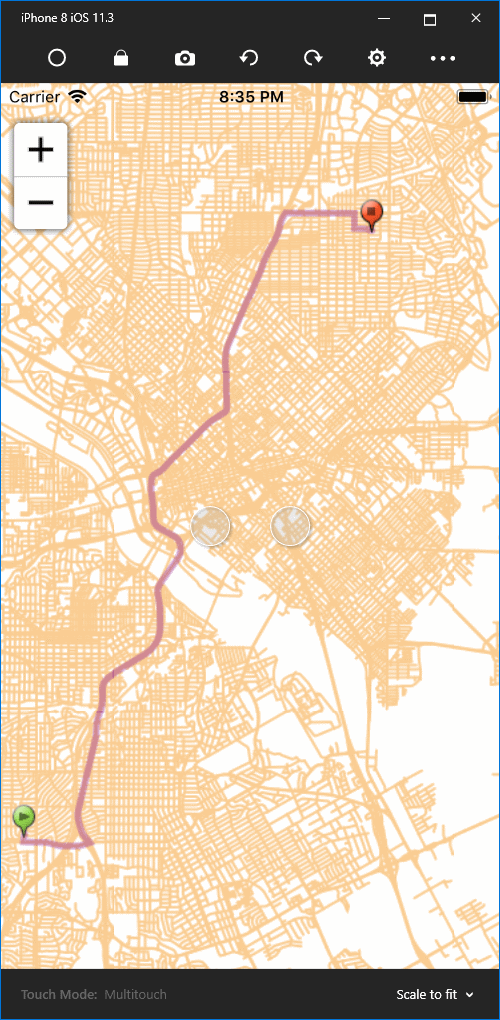
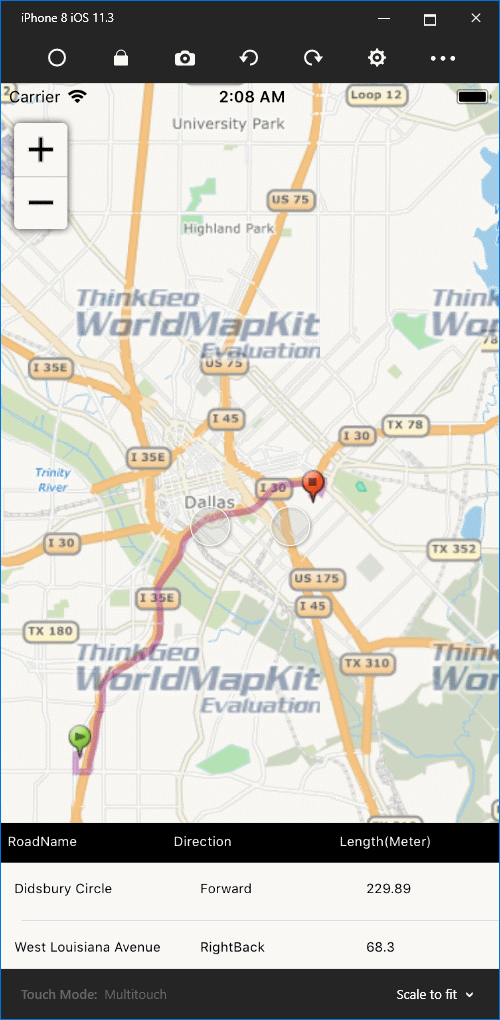
Add Direction Data

diff --git a/RoutingSampleiOS/ViewController.cs b/RoutingSampleiOS/ViewController.cs
@@ -1,5 +1,7 @@
 using CoreGraphics;
 using System;
+using System.Collections.Generic;
+using System.Collections.ObjectModel;
 using System.IO;
 using ThinkGeo.MapSuite;
 using ThinkGeo.MapSuite.Drawing;
@@ -29,17 +31,13 @@ namespace RoutingSample_iOS
             base.ViewDidLoad();
             mapView = new MapView(View.Frame);
             View.Add(mapView);
+            ComposeTableControl();
 
             mapView.MapUnit = GeographyUnit.Meter;
             mapView.MapSingleTap += MapViewMapSingleTap;
 
-            LayerOverlay backgroundOverlay = new LayerOverlay();
             string shapeFilePath = Path.Combine("AppData", "DallasCounty-3857.shp");
-            ShapeFileFeatureLayer shapeFileFeatureLayer = new ShapeFileFeatureLayer(shapeFilePath);
-            shapeFileFeatureLayer.ZoomLevelSet.ZoomLevel01.DefaultLineStyle = WorldStreetsLineStyles.MotorwayFill(2.0f);
-            shapeFileFeatureLayer.ZoomLevelSet.ZoomLevel01.ApplyUntilZoomLevel = ApplyUntilZoomLevel.Level20;
-            backgroundOverlay.Layers.Add(shapeFileFeatureLayer);
-            mapView.Overlays.Add(backgroundOverlay);
+            mapView.Overlays.Add(new WorldStreetAndImageryOverlay() { Projection = WorldStreetsAndImageryProjection.SphericalMercator});
 
             layerOverlay = new LayerOverlay();
             routingLayer = new RoutingLayer();
@@ -56,6 +54,32 @@ namespace RoutingSample_iOS
 
             mapView.CurrentExtent = new RectangleShape(-10781100.2970769, 3875007.18710502, -10767407.8727504, 3854947.78546675);
             mapView.Refresh();
+        }
+
+        private void ComposeTableControl()
+        {
+            var tableHeaderView = new UIView(new CGRect(View.Frame.X, View.Frame.Height - 110, View.Frame.Width, 30));
+            tableHeaderView.BackgroundColor = UIColor.FromRGB(0, 0, 0);
+
+            var cellWidth = tableHeaderView.Frame.Width / 3;
+
+            var roadNameLabel = new UILabel() { Text = "RoadName", TextColor = UIColor.White, Font = UIFont.SystemFontOfSize(10), Frame = new CGRect(View.Frame.X + 5, 8, cellWidth, 20), TextAlignment = UITextAlignment.Center };
+            roadNameLabel.SizeToFit();
+            var directionLabel = new UILabel() { Text = "Direction", TextColor = UIColor.White, Font = UIFont.SystemFontOfSize(10), Frame = new CGRect(View.Frame.X + 5 + cellWidth, 8, cellWidth, 20), TextAlignment = UITextAlignment.Center };
+            directionLabel.SizeToFit();
+            var lengthLabel = new UILabel() { Text = "Length(Meter)", TextColor = UIColor.White, Font = UIFont.SystemFontOfSize(10), Frame = new CGRect(View.Frame.X + 5 + 2 * cellWidth, 8, cellWidth, 20), TextAlignment = UITextAlignment.Center };
+            lengthLabel.SizeToFit();
+
+            tableHeaderView.AddSubview(roadNameLabel);
+            tableHeaderView.AddSubview(directionLabel);
+            tableHeaderView.AddSubview(lengthLabel);
+
+            var tableView = new UITableView(new CGRect(View.Frame.X, View.Frame.Height - 80, View.Frame.Width, View.Frame.Height));
+
+            tableView.BackgroundColor = UIColor.FromRGB(233, 233, 233);
+            View.Add(tableHeaderView);
+
+            View.Add(tableView);
         }
 
         private void MapViewMapSingleTap(object sender, UIGestureRecognizer e)
@@ -80,9 +104,30 @@ namespace RoutingSample_iOS
             {
                 RoutingResult routingResult = routingEngine.GetRoute(routingLayer.StartPoint, routingLayer.EndPoint);
                 routingLayer.Routes.Add(routingResult.Route);
+                ShowTurnByTurnDirections(routingResult.RouteSegments, routingResult.Features);
             }
 
             layerOverlay.Refresh();
+        }
+
+        private void ShowTurnByTurnDirections(Collection<RouteSegment> roads, Collection<Feature> features)
+        {
+            var tableView = View.Subviews[4] as UITableView;
+
+            var directions = new List<DirectionDataItem>();
+            for (int i = 0; i < roads.Count; i++)
+            {
+                var direction = new DirectionDataItem()
+                {
+                    RoadName = features[i].ColumnValues["NAME"],
+                    Direction = roads[i].DrivingDirection.ToString(),
+                    Length = Math.Round(((LineBaseShape)features[i].GetShape()).GetLength(GeographyUnit.Meter, DistanceUnit.Meter), 2)
+                };
+
+                directions.Add(direction);
+            }
+            tableView.DataSource = new DirectionTableViewDataSource(directions);
+            tableView.ReloadData();
         }
 
         public override void DidReceiveMemoryWarning()

diff --git a/RoutingSampleiOS/DirectionTableViewDataSource.cs b/RoutingSampleiOS/DirectionTableViewDataSource.cs
@@ -1,0 +1,60 @@
+using System;
+using System.Collections.Generic;
+using Foundation;
+using UIKit;
+using CoreGraphics;
+
+namespace RoutingSample_iOS
+{
+    class DirectionTableViewDataSource : UITableViewDataSource
+    {
+        private static string cellIdentifier = "cellIdentifier";
+        private List<DirectionDataItem> directionDataList;
+
+        public DirectionTableViewDataSource(List<DirectionDataItem> directions)
+        {
+            directionDataList = directions;
+        }
+
+        public override nint NumberOfSections(UITableView tableView)
+        {
+            return 1;
+        }
+
+        public override UITableViewCell GetCell(UITableView tableView, NSIndexPath indexPath)
+        {
+            var cell = tableView.DequeueReusableCell(cellIdentifier);
+            if(cell == null)
+            {
+                cell = new UITableViewCell(UITableViewCellStyle.Default, cellIdentifier);
+            }
+
+            cell.TextLabel.Font = UIFont.SystemFontOfSize(10);
+            cell.TextLabel.TextColor = UIColor.FromRGB(51, 51, 51);
+            cell.Accessory = UITableViewCellAccessory.DisclosureIndicator;
+            cell.Frame = new CGRect(cell.Frame.X, cell.Frame.Y, cell.Frame.Width, 30);
+
+            var cellWidth = cell.Frame.Width / 3;
+            var roadNameView = new UITextView(new CGRect(5, 5, cellWidth + 15, cell.Frame.Height));
+            roadNameView.Text = directionDataList[indexPath.Row].RoadName;
+            roadNameView.Font = UIFont.SystemFontOfSize(10);
+            var directionView = new UITextView(new CGRect(20 + cellWidth, 5, cellWidth, cell.Frame.Height));
+            directionView.Text = directionDataList[indexPath.Row].Direction;
+            directionView.Font = UIFont.SystemFontOfSize(10);
+            var lengthView = new UITextView(new CGRect(20 + 2 * cellWidth, 5, cellWidth - 15, cell.Frame.Height));
+            lengthView.Text = directionDataList[indexPath.Row].Length.ToString();
+            lengthView.Font = UIFont.SystemFontOfSize(10);
+
+            cell.AddSubview(roadNameView);
+            cell.AddSubview(directionView);
+            cell.AddSubview(lengthView);
+
+            return cell;
+        }
+
+        public override nint RowsInSection(UITableView tableView, nint section)
+        {
+            return directionDataList.Count;
+        }
+    }
+}

diff --git a/RoutingSampleiOS/ViewController.designer.cs b/RoutingSampleiOS/ViewController.designer.cs
@@ -1,16 +1,19 @@
-//
-// This file has been generated automatically to store outlets and
-// actions made in the Xcode designer. If it is removed, they will be lost.
-// Manual changes to this file may not be handled correctly.
+// WARNING
+//
+// This file has been generated automatically by Visual Studio from the outlets and
+// actions declared in your storyboard file.
+// Manual changes to this file will not be maintained.
 //
 using Foundation;
+using System;
+using System.CodeDom.Compiler;
 
 namespace RoutingSample_iOS
 {
-    [Register("ViewController")]
+    [Register ("ViewController")]
     partial class ViewController
     {
-        void ReleaseDesignerOutlets()
+        void ReleaseDesignerOutlets ()
         {
         }
     }

diff --git a/RoutingSampleiOS/DirectionDataItem.cs b/RoutingSampleiOS/DirectionDataItem.cs
@@ -1,0 +1,9 @@
+namespace RoutingSample_iOS
+{
+    class DirectionDataItem
+    {
+        public string RoadName { get; set; }
+        public string Direction { get; set; }
+        public double Length { get; set; }
+    }
+}
